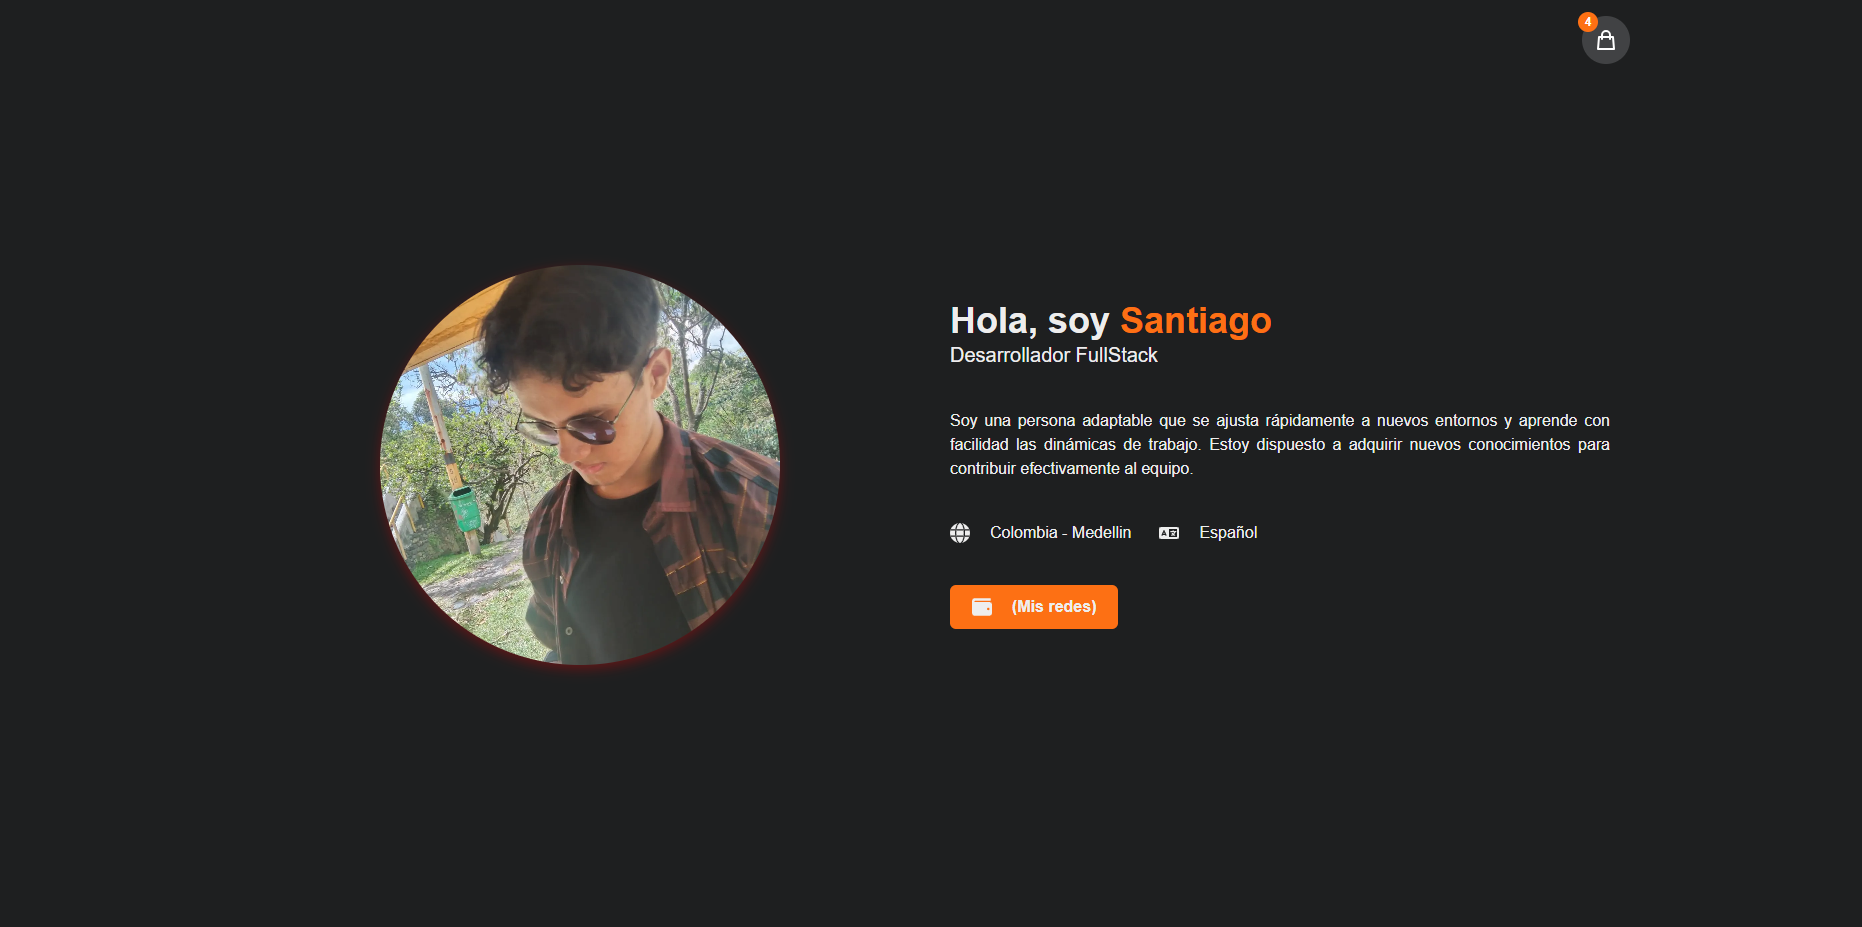
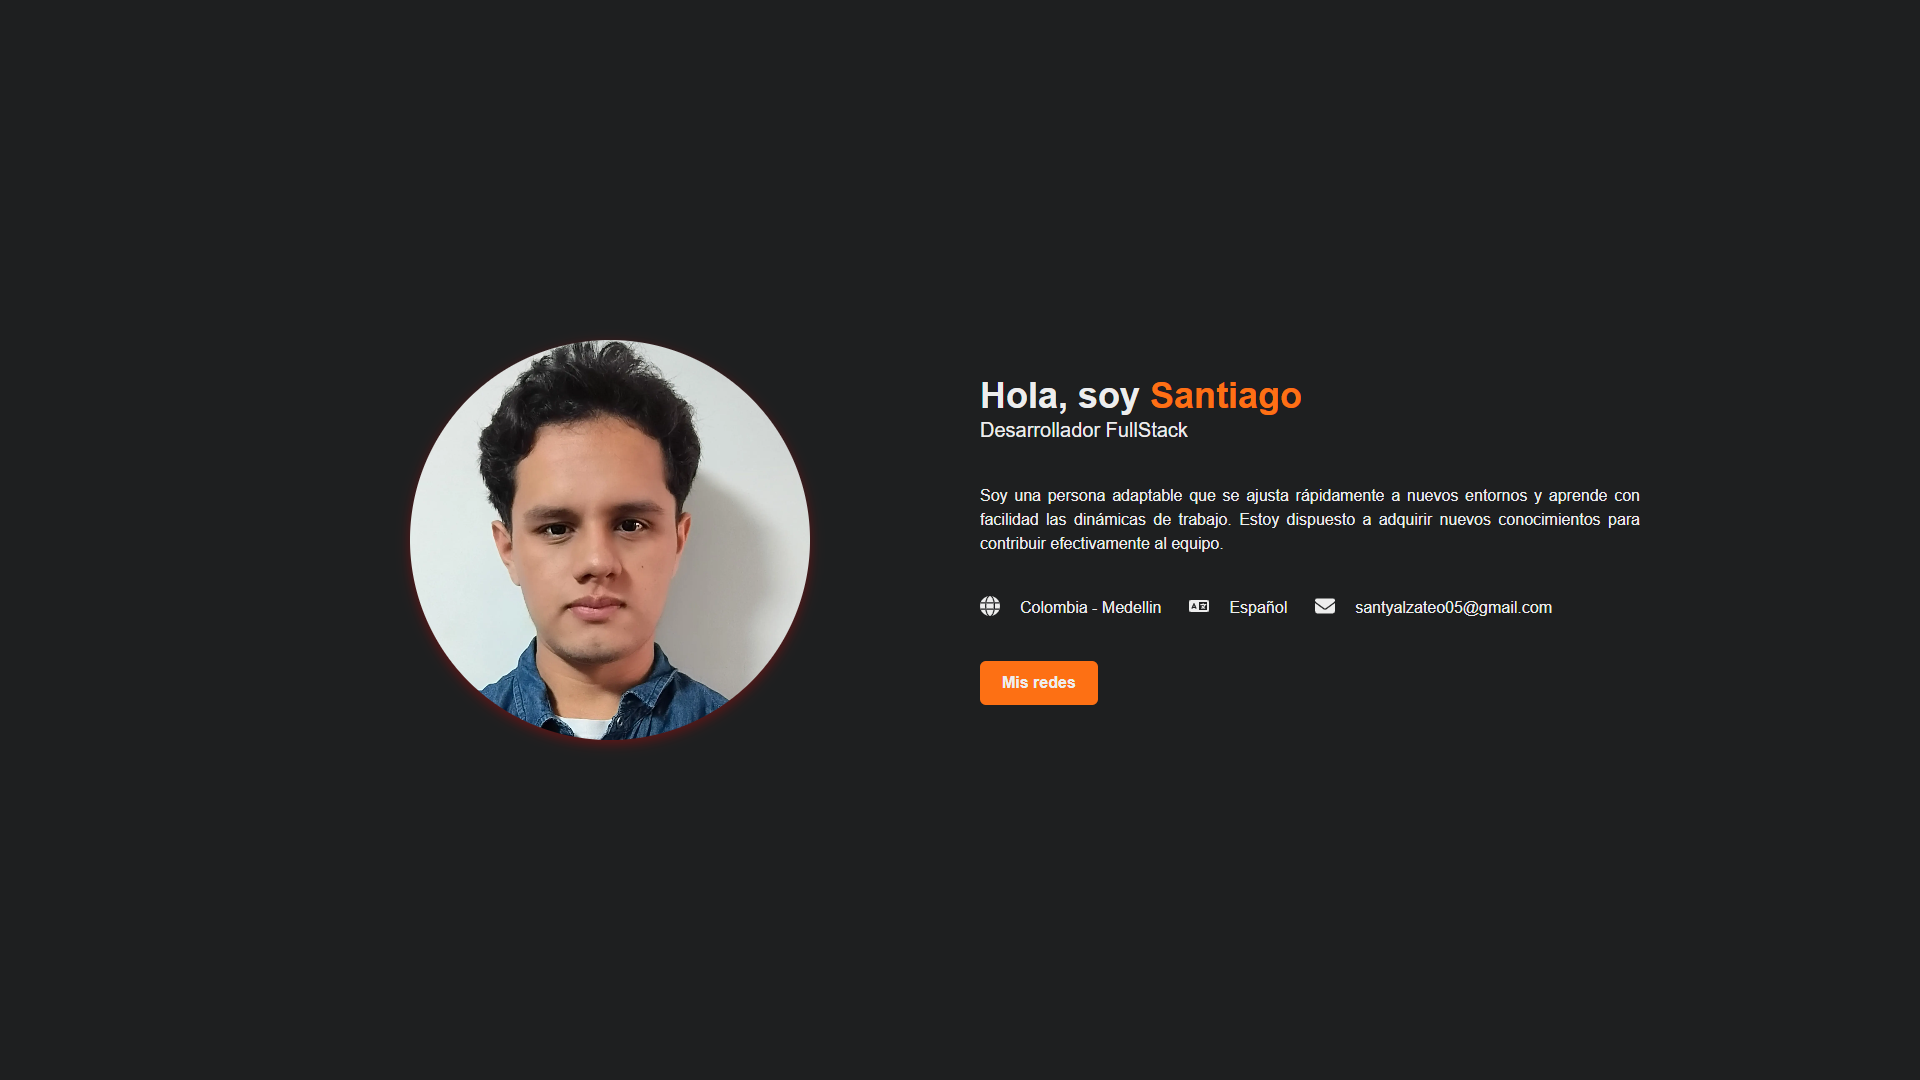
add new proyect and change image to my portfolio

diff --git a/src/app/page.tsx b/src/app/page.tsx
@@ -3,20 +3,19 @@ import SectionMyExperience from "@/components/SectionMyExperience/SectionMyExper
 import SectionMyProjects from "@/components/SectionMyProjects/SectionMyProjects";
 import SectionMySkills from "@/components/SectionMySkills/SectionMySkills";
 import SectionToMe from "@/components/SectionToMe/SectionToMe";
-import Separator from "@/components/Separator/Separator";
 
 export default function Home() {
   return (
     <div className="w-full flex flex-col items-center">
       <div className="max-w-[1440px] w-full">
         <SectionToMe />
-        <Separator />
+        
         <SectionMySkills />
-        <Separator />
+        
         <SectionMyExperience />
-        <Separator />
+        
         <SectionMyProjects />
-        <Separator />
+        
         <SectionContactMe />
       </div>
     </div>

diff --git a/src/data/MyProjectsData/MyProjects.ts b/src/data/MyProjectsData/MyProjects.ts
@@ -1,4 +1,5 @@
 import MyPortfolio from "@/assets/img/My-portfolio.png";
+import TradingInversion from "@/assets/img/Trading-Inversion.png";
 
 interface ProjectItem {
     img: string;
@@ -11,6 +12,11 @@ const MyProjectsData: ProjectItem[] = [
         img: MyPortfolio.src,
         title: "Mi portafolio",
         url: "https://santiagoalzate.online/",
+    },
+    {
+        img: TradingInversion.src,
+        title: "Trading e Inversión",
+        url: "https://tradinginversion.com/",
     }
 ];
 
